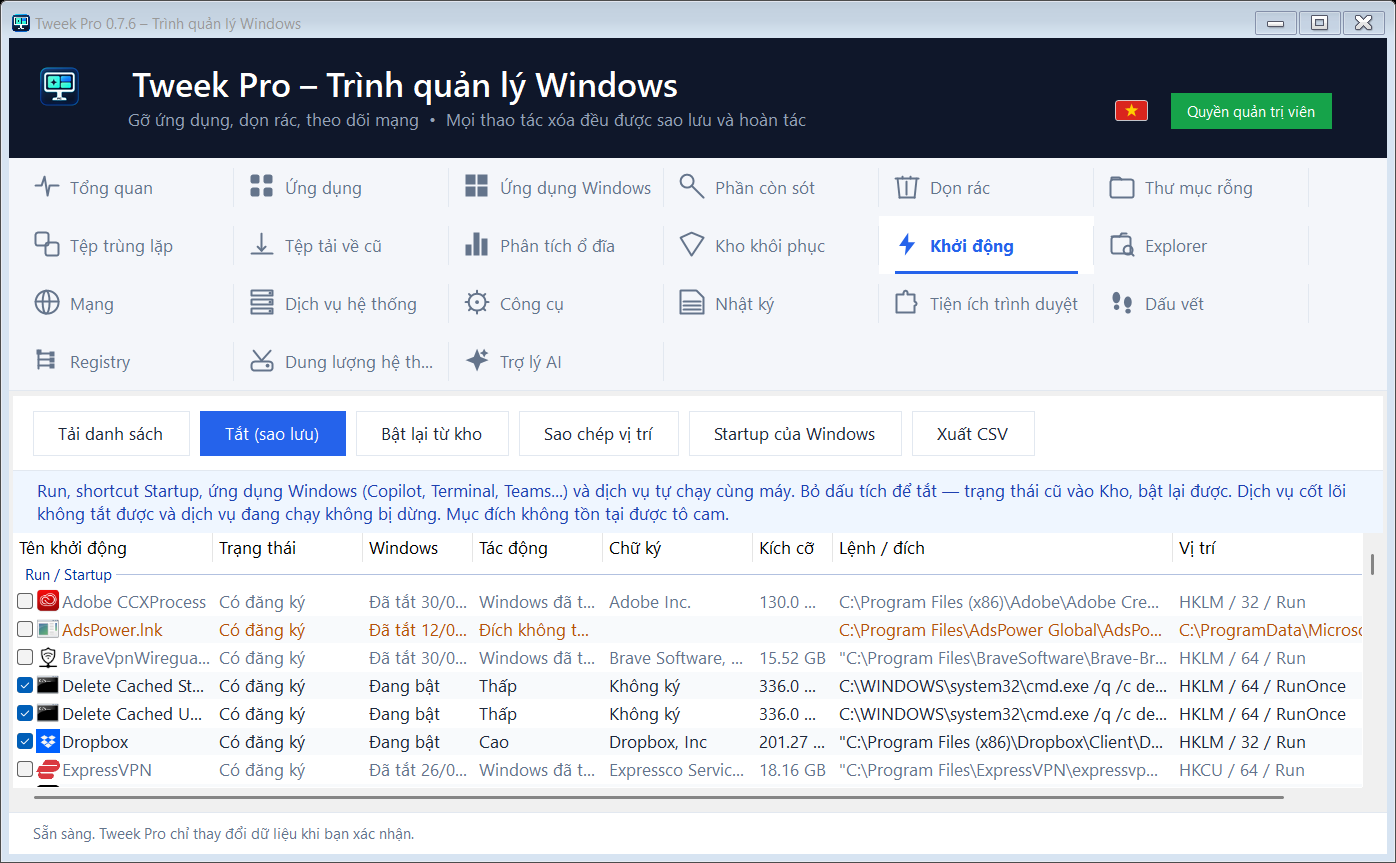
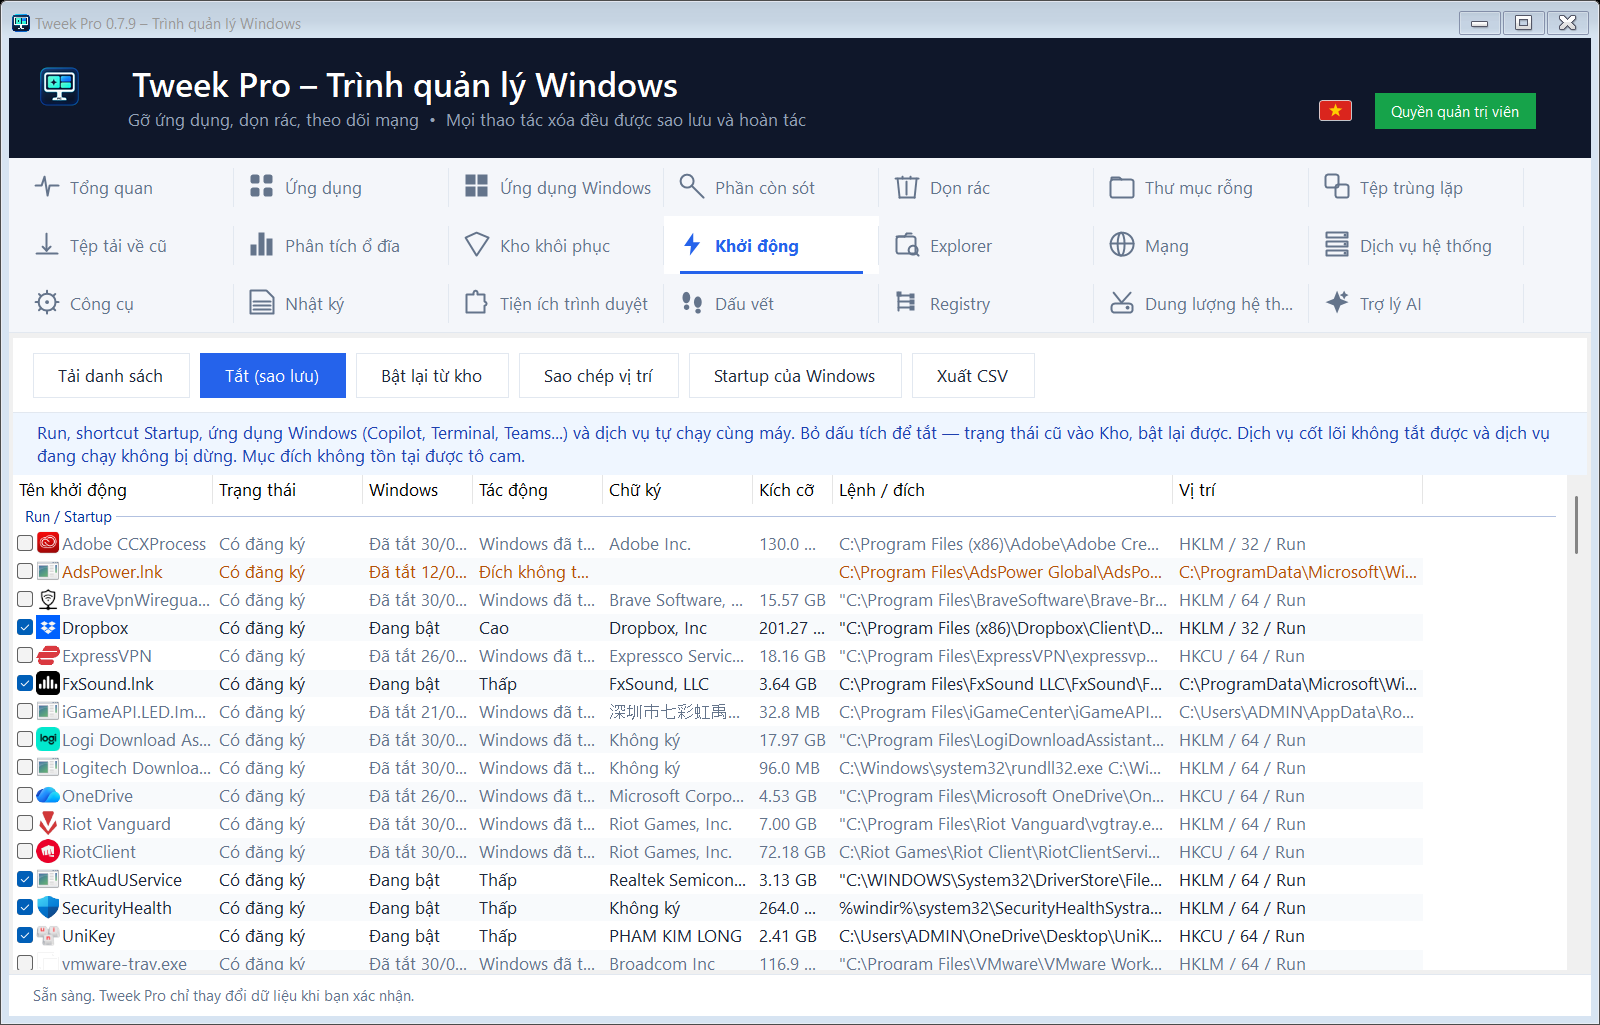
Recapture tab screenshots from the 0.7.9 build.

diff --git a/App.cs b/App.cs
@@ -524,7 +524,8 @@ namespace TweekPro {
    if(mode=="autorun"||mode=="tools"||mode=="junk"||mode=="network"||mode=="health"||mode=="store"||mode=="services"||mode=="ai")form.PreviewAdvanced(mode);else if(mode=="apps")form.PreviewApps();else if(mode=="stale")form.PreviewStale();else if(mode=="tracks")form.PreviewTracks(true);else if(mode=="registry")form.PreviewRegistry();else if(mode=="space")form.PreviewSystemSpace();else if(mode=="extensions")form.PreviewExtensions();else if(mode=="explorer"||mode=="tweaks")form.PreviewExplorer(mode=="tweaks");else if(mode=="empty"||mode=="dupes"||mode=="analyzer"||mode=="vault"||mode=="logs")form.PreviewTab(mode);else if(mode!="")form.PreviewRemnants();
   }
   static void Snapshot(Form form,string fileName,Size? size=null){
-   form.ShowInTaskbar=false;form.Opacity=0;form.Show();Application.DoEvents();if(size.HasValue){form.Size=size.Value;Application.DoEvents();}
+   form.ShowInTaskbar=false;form.Opacity=0;form.Show();Application.DoEvents();
+   if(size.HasValue){int dpi=96;try{using(var g=form.CreateGraphics())dpi=Math.Max(96,(int)Math.Round(g.DpiX));}catch(Exception){}form.Size=new Size(size.Value.Width*dpi/96,size.Value.Height*dpi/96);Application.DoEvents();}
    using(var bitmap=new Bitmap(form.Width,form.Height)){form.DrawToBitmap(bitmap,new Rectangle(0,0,form.Width,form.Height));bitmap.Save(Path.Combine(AppDomain.CurrentDomain.BaseDirectory,fileName));}
   }
  }

diff --git a/WORKSTATE.md b/WORKSTATE.md
@@ -6,7 +6,7 @@ Last editor: Cursor.
 
 ## Current task (21:55)
 
-0.7.9 stays the project version. The v0.7.9 tag was removed so the owner could test; local fixes since e625575 are the Hunter sight, the install-watch notice, and selecting the first application so the details pane is filled. Elevated `--self-test` PASS 2026-09-25T22:01:13 (0 warnings). Pushed `6aeb122` on `origin/main` and tag `v0.7.9`. `release.ps1` now refreshes `docs/screenshots` from the built exe before the version commit, and trims the overview gap above the status bar.
+0.7.9 stays the project version. The v0.7.9 tag was removed so the owner could test; local fixes since e625575 are the Hunter sight, the install-watch notice, and selecting the first application so the details pane is filled. Elevated `--self-test` PASS 2026-09-25T22:01:13 (0 warnings). Pushed `6aeb122` on `origin/main` and tag `v0.7.9`. Screenshots recaptured from the 0.7.9 build (title shows 0.7.9). `Snapshot` scales the 1280×820 frame by the screen DPI so the list is not crushed.
 
 ## Current task (20:10)
 
